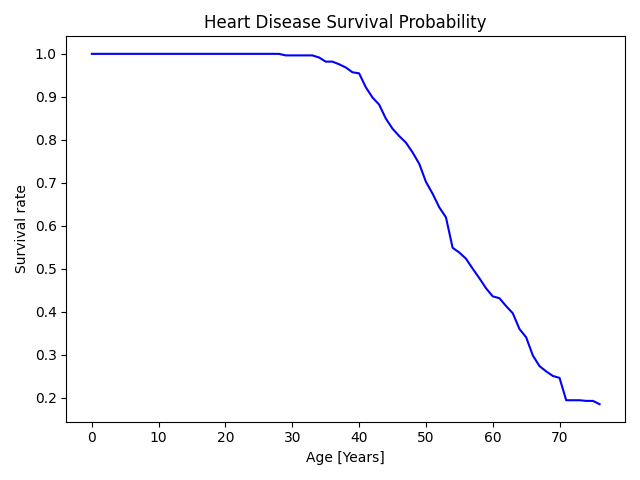
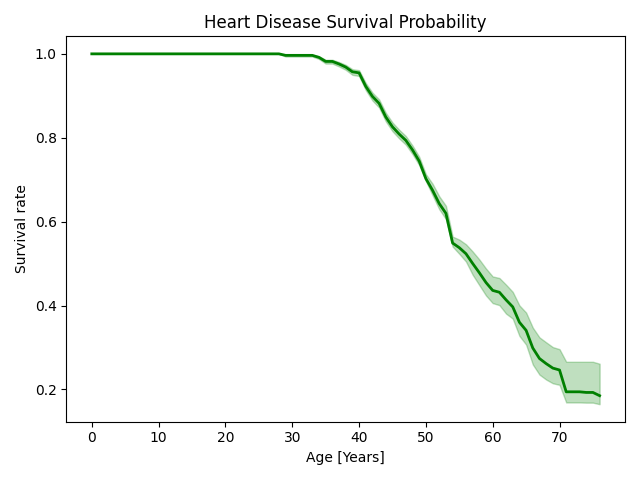
🧩 added CI

diff --git a/models/survival.py b/models/survival.py
@@ -207,18 +207,51 @@ class Survival:
         It outputs the same instance for concatenation.
         """
         logging.info("Running predictions for the whole data set.")
-        self.predictions = self.model.predict()
-        columns = self.predictions.columns
-        self.predictions[self.base.primary_key] = self.base.data[self.base.primary_key]
-        self.predictions = self.predictions.melt(
-            id_vars=self.base.primary_key,
-            value_vars=columns,
-            var_name="age",
-            value_name="survival_rate",
+        preds, lower, upper = self.model.predict(return_ci=True)
+        preds = self._melt_predictions(df=preds.round(4), value_name="survival_rate")
+        lower = self._melt_predictions(
+            df=lower.round(4), value_name="lower_survival_rate"
         )
+        upper = self._melt_predictions(
+            df=upper.round(4), value_name="upper_survival_rate"
+        )
+
+        # merge lower and upper bounds
+        self.predictions = preds.merge(
+            lower, how="left", on=self.base.primary_key + ["age"]
+        ).merge(upper, how="left", on=self.base.primary_key + ["age"])
+
         self.predictions.sort_values(by=self.base.primary_key + ["age"], inplace=True)
         self.predictions.reset_index(drop=True, inplace=True)
         return self
+
+    def _melt_predictions(
+        self, df: pd.DataFrame, value_name: str, var_name: str = "age"
+    ) -> pd.DataFrame:
+        """
+        This takes over post-processing the individual predicitons to an appropriate tabular structure.
+
+        # Parameters
+
+        df: `DataFrame`
+            Data set to format.
+        value_name: `str`
+            Name of the final value.
+        var_name: `str`, default `"age"`
+            Value of the variable to unpivot.
+
+        # Return
+
+        It outputs the unpivoted data set.
+        """
+        df[self.base.primary_key] = self.base.data[self.base.primary_key]
+        df = df.melt(
+            id_vars=self.base.primary_key,
+            value_vars=df.columns,
+            var_name=var_name,
+            value_name=value_name,
+        )
+        return df
 
     def make_figs(self) -> Survival:
         """
@@ -236,8 +269,21 @@ class Survival:
         """
         This creates a figure for the average survival rate of the whole data set.
         """
-        df = self.predictions.groupby("age")[["survival_rate"]].mean().reset_index()
-        plt.plot(df["age"], df["survival_rate"], "b-")
+        df = (
+            self.predictions.groupby("age")[
+                ["survival_rate", "lower_survival_rate", "upper_survival_rate"]
+            ]
+            .mean()
+            .reset_index()
+        )
+        plt.plot(df["age"], df["survival_rate"], "g-", linewidth=2)
+        plt.fill_between(
+            df["age"],
+            df["lower_survival_rate"],
+            df["upper_survival_rate"],
+            alpha=0.25,
+            color="g",
+        )
         plt.xlabel("Age [Years]")
         plt.ylabel("Survival rate")
         plt.title("Heart Disease Survival Probability")
@@ -256,10 +302,21 @@ class Survival:
         )
         df["sex"] = df["sex"].map(self.base.boolean_mapping.get("sex"))
 
-        df = df.groupby(["age", "sex"])[["survival_rate"]].mean().reset_index()
+        df = (
+            df.groupby(["age", "sex"])[
+                ["survival_rate", "lower_survival_rate", "upper_survival_rate"]
+            ]
+            .mean()
+            .reset_index()
+        )
         for sex, _df in df.groupby("sex"):
             plt.plot(_df["age"], _df["survival_rate"], label=f"Sex [{sex}]")
-
+            plt.fill_between(
+                _df["age"],
+                _df["lower_survival_rate"],
+                _df["upper_survival_rate"],
+                alpha=0.25,
+            )
         plt.legend(loc=1)
         plt.xlabel("Age [Years]")
         plt.ylabel("Survival rate")

diff --git a/models/models.py b/models/models.py
@@ -53,7 +53,9 @@ class Model(ABC):
         ...
 
     @abstractmethod
-    def predict(self, x: pd.DataFrame | None = None) -> pd.DataFrame:
+    def predict(
+        self, x: pd.DataFrame | None = None, **kwargs
+    ) -> pd.DataFrame | tuple[pd.DataFrame, pd.DataFrame, pd.DataFrame]:
         ...
 
     @abstractmethod
@@ -171,7 +173,9 @@ class XGBSEKaplanTreeModel(Model):
         logging.info("Fitting mdoel.")
         self._model.fit(self.x_train, self.y_train, time_bins=self.time_bins)
 
-    def predict(self, x: pd.DataFrame | None = None) -> pd.DataFrame:
+    def predict(
+        self, x: pd.DataFrame | None = None, return_ci: bool = False
+    ) -> pd.DataFrame | tuple[pd.DataFrame, pd.DataFrame, pd.DataFrame]:
         """
         This can be used to predict values for a given data set. The whole is used as default.
 
@@ -179,6 +183,8 @@ class XGBSEKaplanTreeModel(Model):
 
         x: `DataFrame` or `None`, default `None`
             Data set to apply predictions to.
+        return_ci: `bool`, default `False`
+            Whether to return the confidence intervals or not.
 
         # Return
 
@@ -189,7 +195,7 @@ class XGBSEKaplanTreeModel(Model):
             x = self._features._base.data[
                 self._features.get_categorical() + self._features.get_numerical()
             ]
-        return self._model.predict(x)
+        return self._model.predict(x, return_ci=return_ci)
 
     def save(self, path: Path, name: str) -> None:
         super().save(path, name)
